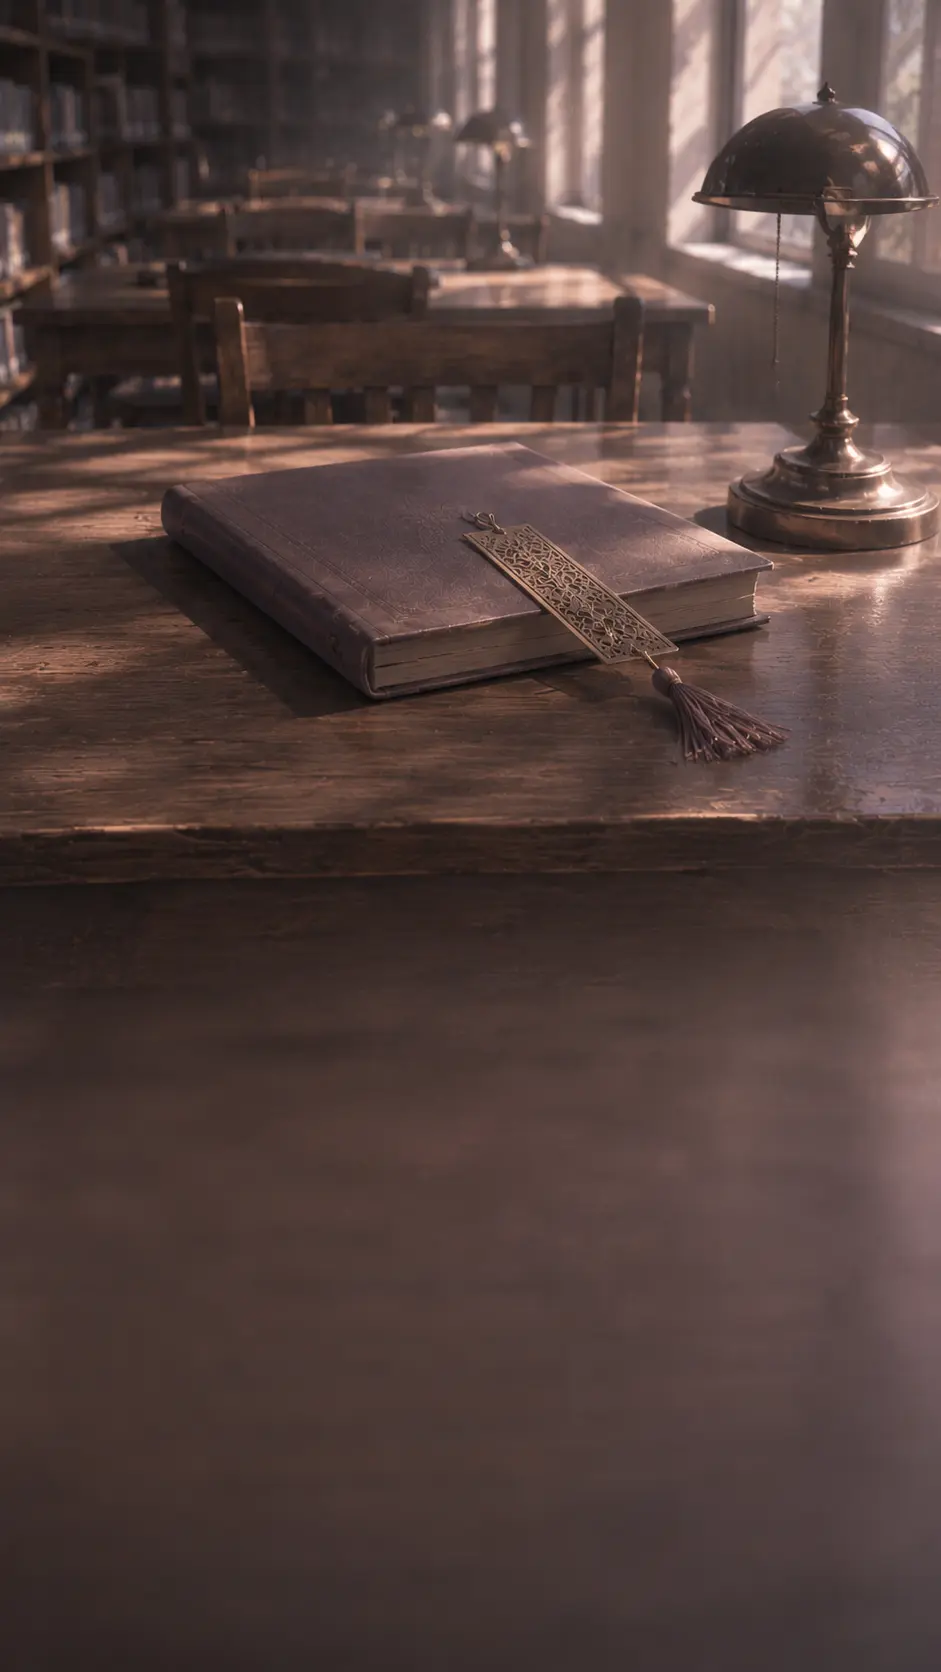
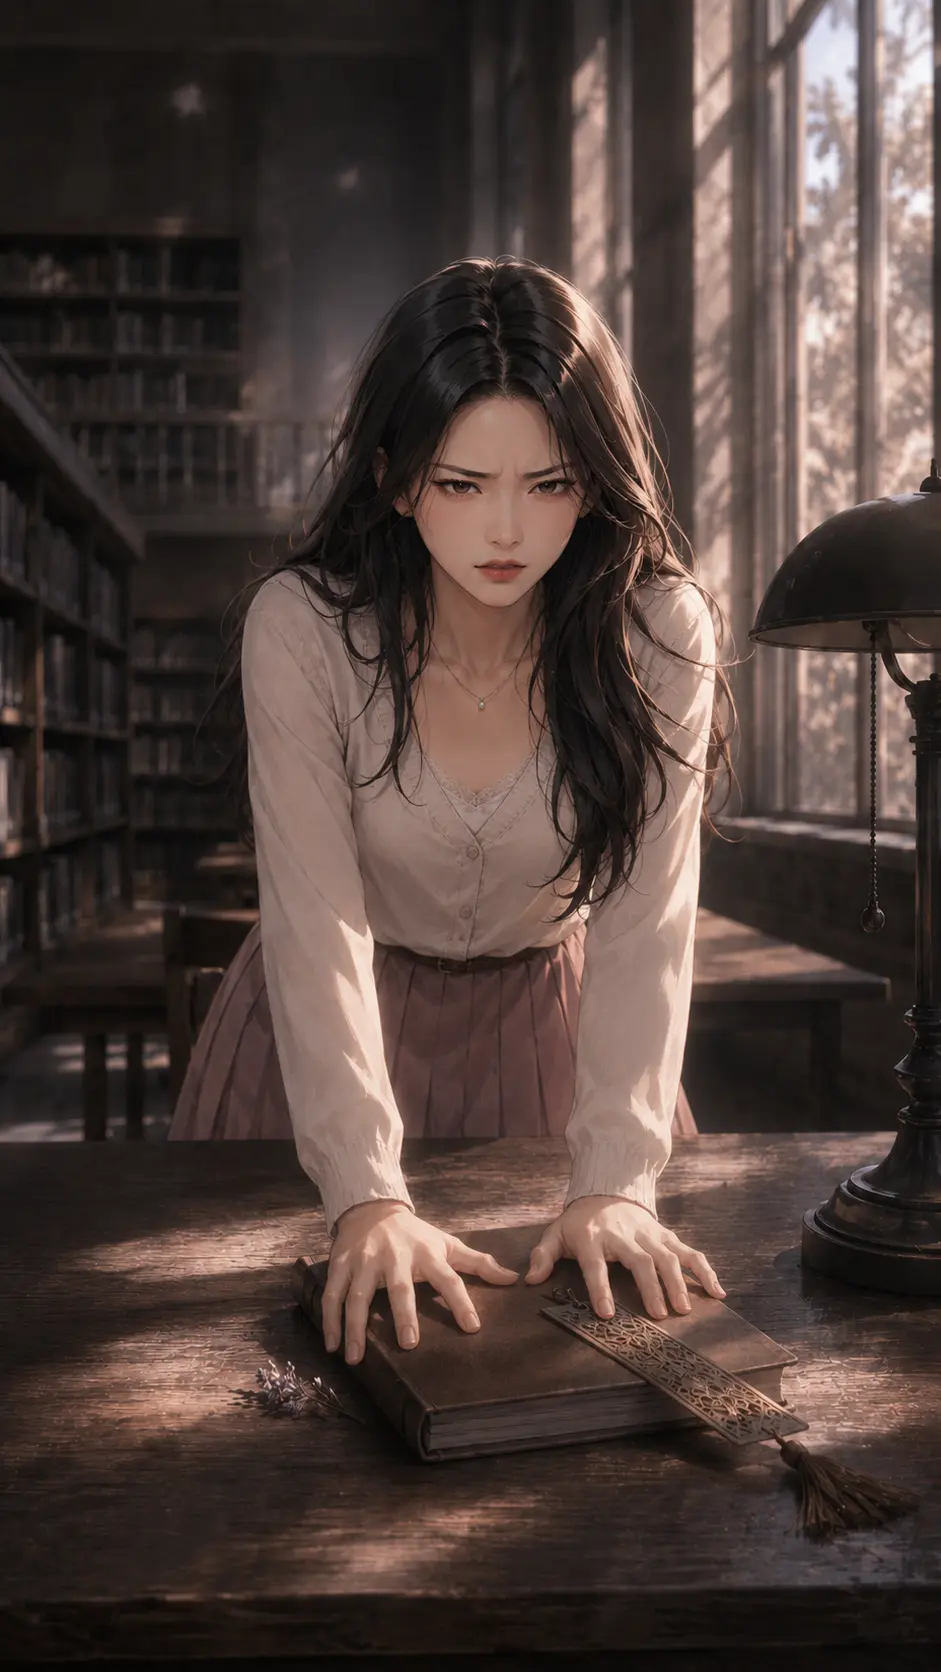
Add OG image metadata

diff --git a/index.html b/index.html
@@ -5,6 +5,28 @@
     <link rel="icon" type="image/svg+xml" href="/favicon.svg" />
     <meta name="viewport" content="width=device-width, initial-scale=1.0" />
     <title>keiko-love-sim</title>
+    <title>오늘도 케이코쨩은 웃지 않는다</title>
+    <meta
+      name="description"
+      content="쉽게 웃지 않는 그녀, 케이코쨩. 당신의 선택에 따라 그녀는 마음을 열 수도, 조용히 떠나버릴 수도 있습니다."
+    />
+
+    <meta property="og:type" content="website" />
+    <meta property="og:title" content="오늘도 케이코쨩은 웃지 않는다" />
+    <meta
+      property="og:description"
+      content="미소녀 1인 심층 공략 미연시. Can you make Keiko smile?"
+    />
+    <meta property="og:image" content="/images/og/keiko-og.png" />
+    <meta property="og:url" content="https://keiko-love-sim.vercel.app/" />
+
+    <meta name="twitter:card" content="summary_large_image" />
+    <meta name="twitter:title" content="오늘도 케이코쨩은 웃지 않는다" />
+    <meta
+      name="twitter:description"
+      content="미소녀 1인 심층 공략 미연시. Can you make Keiko smile?"
+    />
+    <meta name="twitter:image" content="/images/og/keiko-og.png" />
   </head>
   <body>
     <div id="root"></div>
